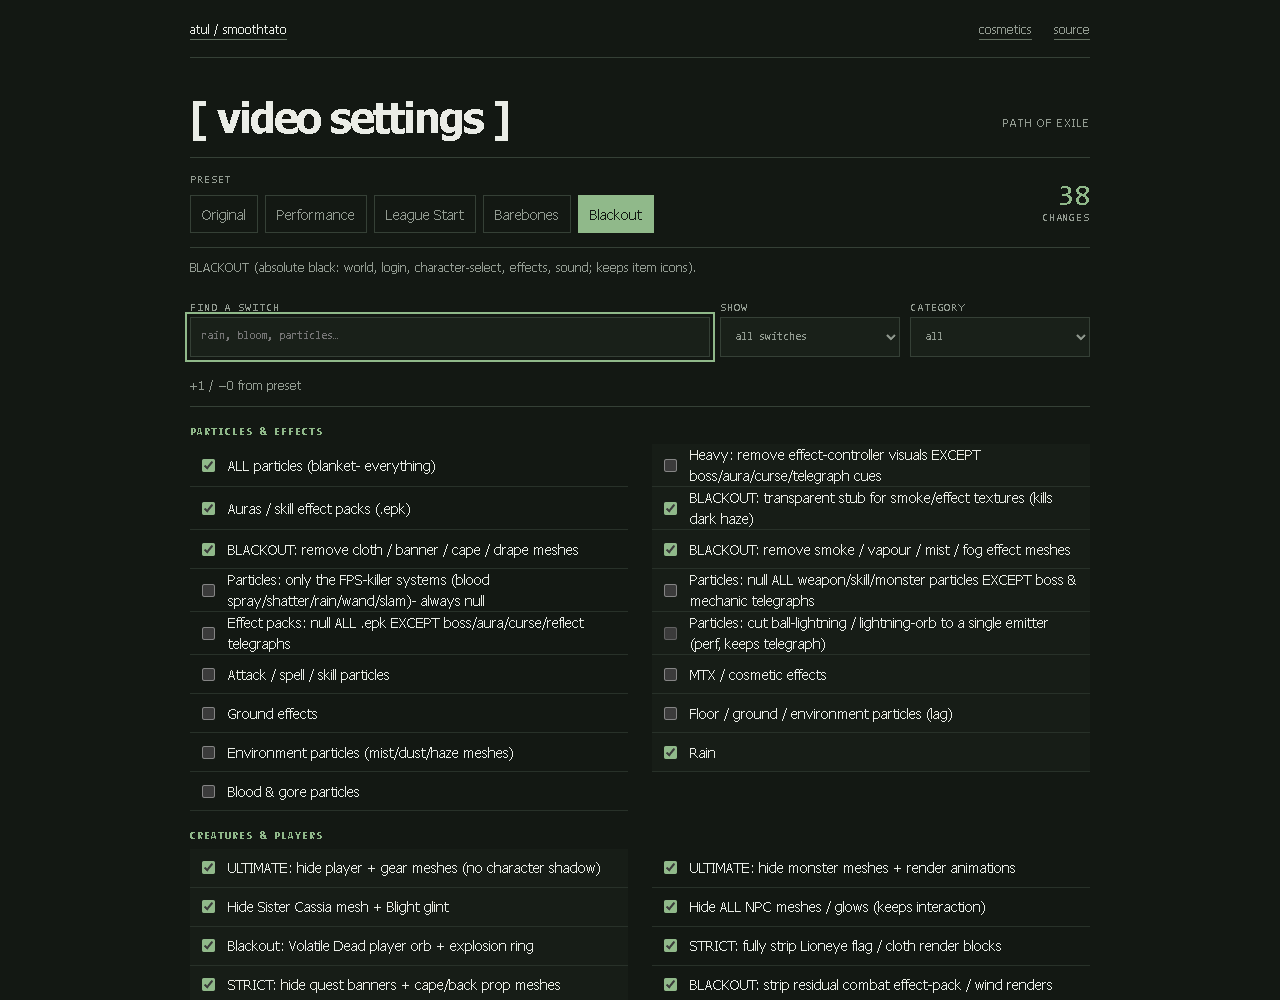
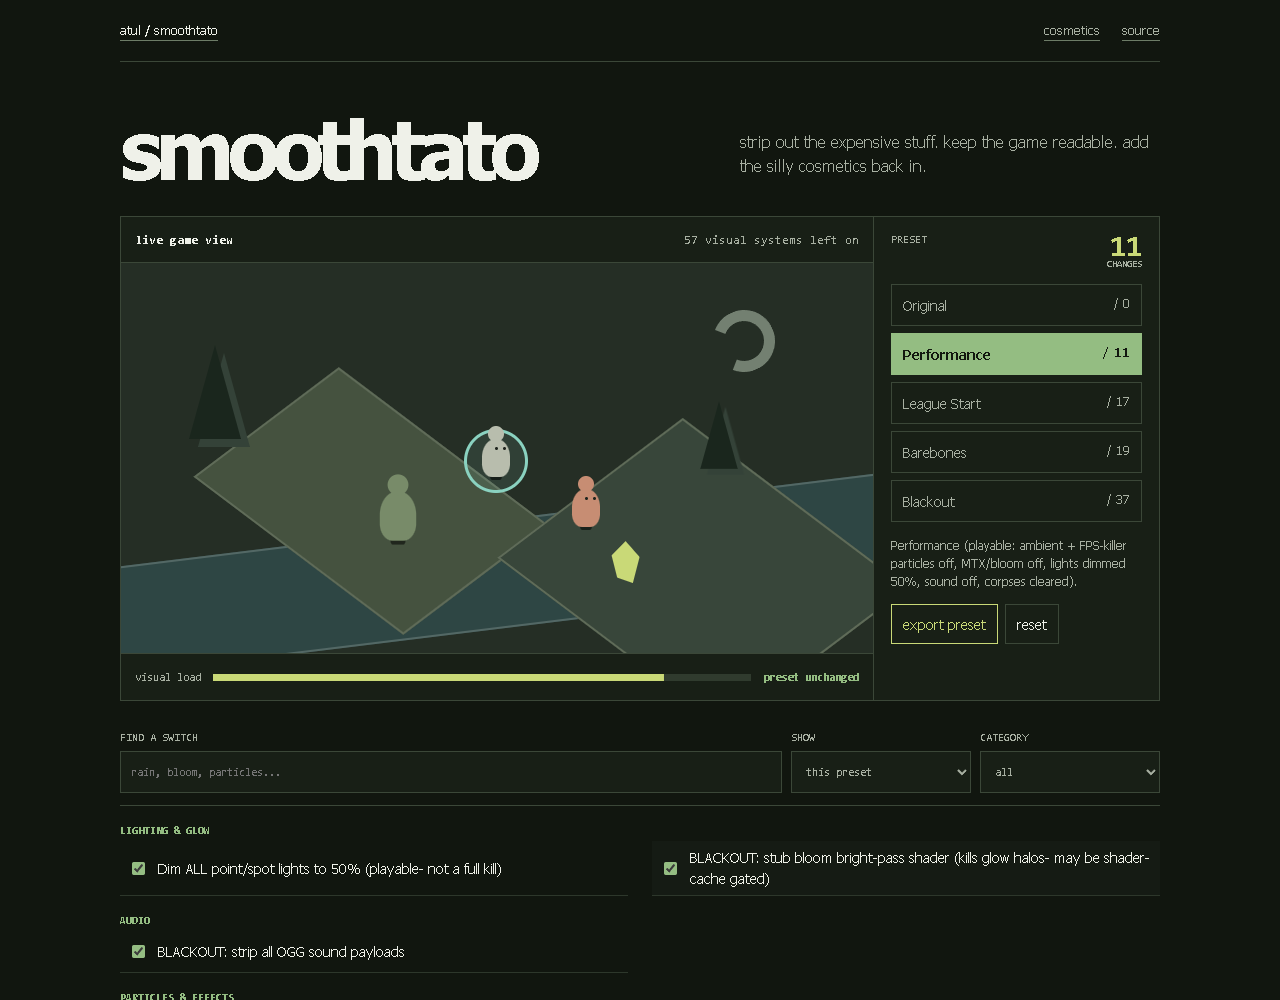
Turn Smoothtato into a visual workbench

diff --git a/examples/portfolio/style.css b/examples/portfolio/style.css
@@ -1,1 +1,6 @@
-:root{color-scheme:dark;--bg:#131813;--ink:#e9ece6;--muted:#929b91;--line:#354036;--green:#90b98a;--panel:#192019}*{box-sizing:border-box}body{margin:0;background:var(--bg);color:var(--ink);font:14px/1.5 "Segoe UI",Arial,sans-serif}a{color:inherit;text-decoration-color:#667364;text-underline-offset:5px}button,input,select,textarea{font:inherit;color:inherit;border-radius:0}:focus-visible{outline:2px solid var(--green);outline-offset:3px}header,main{width:min(900px,calc(100% - 48px));margin:auto}header{height:68px;display:flex;align-items:center;justify-content:space-between;border-bottom:1px solid var(--line);font-size:12px}header nav{display:flex;gap:22px;color:var(--muted)}main{padding:68px 0}.hero p{margin:0 0 9px;color:var(--muted);font-size:11px;text-transform:uppercase;letter-spacing:.1em}.hero h1{margin:0 0 52px;font:54px/.97 Georgia,serif;font-weight:400;letter-spacing:-.04em}.hero em{color:var(--green);font-weight:400}.presets{display:flex;align-items:end;justify-content:space-between;gap:20px;padding-block:20px;border-block:1px solid var(--line)}.presets>div>span,.controls label{display:block;margin-bottom:7px;color:var(--muted);font-size:11px;text-transform:uppercase;letter-spacing:.08em}#presets{display:flex;flex-wrap:wrap;gap:7px}#presets button{min-height:38px;padding:7px 11px;border:1px solid var(--line);background:transparent;color:var(--muted)}#presets button[aria-pressed=true]{color:#121812;background:var(--green);border-color:var(--green)}#presets small{display:none}.meter{text-align:right}.meter strong{display:block;color:var(--green);font:30px/1 Georgia,serif}.meter span{color:var(--muted);font-size:11px}#preset-description,#differences,#status,#provenance{color:var(--muted);font-size:12px}#preset-description{margin:10px 0 24px}.controls{display:grid;grid-template-columns:1fr 180px 180px;gap:10px;margin-bottom:16px}.controls input,.controls select,textarea{width:100%;min-height:44px;padding:8px 10px;border:1px solid var(--line);background:var(--panel)}#categories{display:grid;grid-template-columns:1fr 1fr;gap:0 24px;border-top:1px solid var(--line)}.group-title{grid-column:1/-1;margin:24px 0 6px;color:var(--green);font-size:11px;text-transform:uppercase;letter-spacing:.09em}.switch{display:flex;align-items:center;gap:10px;min-height:44px;border-bottom:1px solid #283129;cursor:pointer}.switch input{accent-color:var(--green)}.switch strong{font-weight:500}.switch small{display:none}.actions{display:flex;gap:10px;margin-top:25px}.actions button,details button{min-height:42px;padding:8px 13px;border:1px solid var(--line);background:transparent}.actions #export{border-color:var(--green);color:var(--green)}details{margin-top:24px;border-block:1px solid var(--line);padding-bottom:16px}summary{padding:16px 0;color:var(--green);cursor:pointer}details textarea{display:block;max-width:600px;margin-bottom:10px}footer{margin-top:34px;padding-top:18px;border-top:1px solid var(--line)}@media(max-width:650px){header,main{width:calc(100% - 30px)}header{height:58px}main{padding:46px 0}.hero h1{font-size:clamp(40px,13vw,53px)}.presets{align-items:start}.controls{grid-template-columns:1fr 1fr}.controls label:first-child{grid-column:1/-1}#categories{grid-template-columns:1fr}.group-title{grid-column:1}.switch{min-height:48px}}@media(prefers-reduced-motion:reduce){*{transition:none!important}}
+:root{color-scheme:dark;--bg:#11160f;--panel:#181f16;--panel-2:#1e281b;--ink:#eff1e9;--muted:#a8b0a2;--line:#3b4738;--leaf:#94bd82;--acid:#c9d977;--clay:#c99673;--sky:#8ca7a5;--noise:84%}*{box-sizing:border-box}html{background:var(--bg)}body{margin:0;background:var(--bg);color:var(--ink);font:14px/1.5 Tahoma,"Segoe UI",sans-serif}a{color:inherit;text-decoration-color:#6d7c67;text-underline-offset:5px}button,input,select,textarea{font:inherit;color:inherit}:focus-visible{outline:2px solid var(--acid);outline-offset:3px}[hidden]{display:none!important}header,main{width:min(1040px,calc(100% - 48px));margin:auto}header{height:62px;display:flex;align-items:center;justify-content:space-between;border-bottom:1px solid var(--line);font-size:13px}header nav{display:flex;gap:22px;color:var(--muted)}main{padding:52px 0 54px}.hero{display:flex;align-items:end;justify-content:space-between;gap:40px;margin-bottom:35px}.hero h1{margin:0;font:800 clamp(50px,8vw,82px)/.82 Tahoma,"Segoe UI",sans-serif;letter-spacing:-.075em}.hero p{max-width:420px;margin:0 0 3px;color:var(--muted);font-size:16px}
+.workbench{display:grid;grid-template-columns:minmax(0,1.45fr) minmax(270px,.55fr);border:1px solid var(--line);background:var(--panel)}.preview-panel{min-width:0;border-right:1px solid var(--line)}.preview-head{height:46px;display:flex;align-items:center;justify-content:space-between;gap:20px;padding:8px 14px;border-bottom:1px solid var(--line);font:12px/1 ui-monospace,Consolas,monospace}.preview-head span{color:var(--muted)}.game-preview{position:relative;height:390px;overflow:hidden;background:#252e25;isolation:isolate}.game-preview:before{content:"";position:absolute;inset:0;background:linear-gradient(155deg,transparent 0 47%,#4a5847 47% 48%,transparent 48%),linear-gradient(25deg,transparent 0 58%,#3c493c 58% 59%,transparent 59%);opacity:.7}.moon{position:absolute;right:13%;top:12%;width:62px;height:62px;border:11px solid #a3b3a0;border-left-color:transparent;border-radius:50%;rotate:-24deg;opacity:.62}.ground{position:absolute;background:#45523f;transform:rotate(45deg) skew(-8deg,-8deg);border:2px solid #5f6b58}.ground-a{left:16%;bottom:16%;width:260px;height:180px}.ground-b{right:4%;bottom:-9%;width:280px;height:230px;background:#38463a}.water{position:absolute;left:-12%;right:-10%;bottom:6%;height:28%;background:#314c4c;transform:skewY(-7deg);border-block:2px solid #5f7776;opacity:.8}.fog{position:absolute;z-index:7;width:80%;height:58px;background:#b8c2b4;filter:blur(25px);opacity:.21;transition:opacity 260ms ease-out}.fog-a{left:-20%;top:28%;rotate:7deg}.fog-b{right:-18%;bottom:16%;rotate:-5deg}.doodad{position:absolute;z-index:3;transition:opacity 220ms ease-out,transform 220ms ease-out}.tree-a,.tree-b{width:0;height:0;border-left:26px solid transparent;border-right:26px solid transparent;border-bottom:94px solid #1a261d;filter:drop-shadow(9px 8px 0 #344238)}.tree-a{left:9%;top:21%}.tree-b{right:17%;top:32%;scale:.72}.crystal{right:31%;bottom:18%;width:28px;height:42px;background:var(--acid);clip-path:polygon(50% 0,100% 38%,76% 100%,20% 87%,0 34%);outline:2px solid #e9efae}.corpse{position:absolute;z-index:5;width:42px;height:13px;border:3px solid #85685f;border-radius:50%;rotate:-16deg;transition:opacity 180ms ease-out}.corpse-a{left:29%;bottom:24%}.corpse-b{right:22%;bottom:37%;scale:.7}.player,.other-player,.monster{position:absolute;z-index:8;width:28px;height:38px;border-radius:48% 48% 35% 35%;background:#b8bdad;box-shadow:0 11px 0 -8px #0008;transition:opacity 180ms ease-out}.player{left:48%;top:45%}.other-player{left:60%;top:58%;background:#c78d73}.monster{left:35%;top:60%;background:#788b69;scale:1.3}.player:before,.other-player:before,.monster:before{content:"";position:absolute;left:6px;top:-13px;width:16px;height:16px;border-radius:50%;background:inherit}.player i,.other-player i{position:absolute;left:13px;top:8px;width:3px;height:3px;border-radius:50%;background:#20251f;box-shadow:8px 0 #20251f}.aura,.bloom,.mtx{position:absolute;z-index:6;left:calc(48% - 18px);top:calc(45% - 10px);width:64px;height:64px;border:3px solid #8ad2c0;border-radius:50%;background:#8ad2c01c;animation:aura 1.8s ease-in-out infinite;transition:opacity 180ms ease-out}.bloom{left:calc(35% - 22px);top:calc(60% - 17px);width:78px;height:58px;border-color:#efc58a;background:#efc58a24}.mtx{left:calc(60% - 20px);top:calc(58% - 13px);width:70px;height:70px;border-style:dashed;border-color:#cf8fcb;background:#cf8fcb19}.particle{position:absolute;z-index:9;width:7px;height:7px;background:#d4e1a7;rotate:45deg;animation:float 1.7s ease-in-out infinite;transition:opacity 180ms ease-out}.p1{left:42%;top:32%}.p2{left:55%;top:39%;animation-delay:-.4s}.p3{left:69%;top:51%;animation-delay:-.8s}.p4{left:28%;top:53%;animation-delay:-1.1s}.rain{position:absolute;z-index:10;top:-10%;width:1px;height:44%;background:#a9c1c1;rotate:17deg;opacity:.48;animation:rain .85s linear infinite;transition:opacity 180ms ease-out}.r1{left:12%}.r2{left:31%;animation-delay:-.2s}.r3{left:49%;animation-delay:-.5s}.r4{left:70%;animation-delay:-.7s}.r5{left:88%;animation-delay:-.35s}.game-preview.no-rain .rain,.game-preview.no-fog .fog,.game-preview.no-bloom .bloom,.game-preview.no-doodads .doodad,.game-preview.no-corpses .corpse,.game-preview.no-other-player .other-player,.game-preview.no-water .water,.game-preview.no-mtx .mtx,.game-preview.no-particles .particle,.game-preview.no-aura .aura{opacity:0}.game-preview.blackout .ground,.game-preview.blackout .moon{opacity:.08}.game-preview.blackout{background:#131813}@keyframes aura{50%{scale:1.08;opacity:.65}}@keyframes float{50%{translate:0 -13px;rotate:120deg}}@keyframes rain{to{translate:72px 470px}}.noise-readout{height:47px;display:grid;grid-template-columns:auto minmax(100px,1fr) auto;align-items:center;gap:12px;padding:8px 14px;border-top:1px solid var(--line);color:var(--muted);font:11px/1 ui-monospace,Consolas,monospace}.noise-readout i{height:7px;background:#303b2e;overflow:hidden}.noise-readout b{display:block;width:100%;height:100%;background:var(--acid);transform:scaleX(var(--noise));transform-origin:left;transition:transform 260ms ease-out}.noise-readout strong{color:var(--leaf);font-weight:600}
+.preset-panel{padding:17px}.preset-title{display:flex;align-items:start;justify-content:space-between;margin-bottom:15px;color:var(--muted);font:11px/1 ui-monospace,Consolas,monospace;text-transform:uppercase}.meter{text-align:right}.meter strong{display:block;color:var(--acid);font:700 30px/.8 ui-monospace,Consolas,monospace}.meter small{font-size:10px}#presets{display:grid;gap:7px}#presets button{min-height:42px;padding:8px 11px;border:1px solid var(--line);background:transparent;color:var(--muted);text-align:left;transition:background-color 120ms ease-out,color 120ms ease-out,transform 120ms ease-out}#presets button:hover{color:var(--ink)}#presets button:active{transform:scale(.96)}#presets button[aria-pressed=true]{border-color:var(--leaf);background:var(--leaf);color:#12170f;font-weight:700}#presets small{float:right}#preset-description{min-height:44px;margin:14px 0;color:var(--muted);font-size:12px}.actions{display:flex;gap:7px}.actions button,details button{min-height:40px;padding:7px 11px;border:1px solid var(--line);background:transparent}.actions #export{border-color:var(--acid);color:var(--acid)}
+.switchboard{margin-top:30px}.controls{display:grid;grid-template-columns:1fr 180px 180px;gap:9px;margin-bottom:12px}.controls label{display:block;color:var(--muted);font:11px/1.2 ui-monospace,Consolas,monospace;text-transform:uppercase}.controls input,.controls select,textarea{width:100%;min-height:42px;margin-top:7px;padding:8px 10px;border:1px solid var(--line);background:var(--panel)}#categories{display:grid;grid-template-columns:1fr 1fr;gap:0 24px;border-top:1px solid var(--line)}.group-title{grid-column:1/-1;margin:19px 0 5px;color:var(--leaf);font:700 11px/1 ui-monospace,Consolas,monospace;text-transform:uppercase}.switch{display:flex;align-items:center;gap:10px;min-height:42px;padding:6px 8px;border-bottom:1px solid #2d372b;cursor:pointer}.switch:nth-of-type(even){background:#151b14}.switch input{accent-color:var(--leaf)}.switch strong{font-weight:500}.switch small{display:none}details{margin-top:22px;border-block:1px solid var(--line);padding-bottom:15px}summary{padding:14px 0;color:var(--leaf);cursor:pointer}details textarea{display:block;max-width:600px;margin-bottom:10px}#status,#provenance{color:var(--muted);font-size:12px}footer{margin-top:25px;padding-top:14px;border-top:1px solid var(--line)}
+@media(max-width:760px){header,main{width:calc(100% - 28px)}header{height:58px}main{padding:38px 0}.hero{display:block}.hero h1{font-size:56px}.hero p{margin-top:20px}.workbench{grid-template-columns:1fr}.preview-panel{border-right:0;border-bottom:1px solid var(--line)}.game-preview{height:300px}.preset-panel{padding:14px}#presets{grid-template-columns:1fr 1fr}.controls{grid-template-columns:1fr 1fr}.controls label:first-child{grid-column:1/-1}#categories{grid-template-columns:1fr}.group-title{grid-column:1}.switch{min-height:46px}.noise-readout{grid-template-columns:auto 1fr}.noise-readout strong{grid-column:1/-1}}
+@media(prefers-reduced-motion:reduce){*{animation:none!important;transition:none!important}}

diff --git a/examples/portfolio/index.html b/examples/portfolio/index.html
@@ -1,13 +1,51 @@
-<!doctype html><html lang="en"><head><meta charset="utf-8"><meta name="viewport" content="width=device-width,initial-scale=1"><title>smoothtato / graphics presets</title><link rel="stylesheet" href="style.css"><link rel="stylesheet" href="identity.css"></head><body>
+<!doctype html>
+<html lang="en">
+<head>
+    <meta charset="utf-8">
+    <meta name="viewport" content="width=device-width,initial-scale=1">
+    <meta name="theme-color" content="#11160f">
+    <title>smoothtato / graphics workbench</title>
+    <link rel="icon" href="assets/favicon.svg" type="image/svg+xml">
+    <link rel="stylesheet" href="style.css">
+    <link rel="stylesheet" href="identity.css">
+</head>
+<body>
 <header><a href="https://lolstar123.github.io/just-a-little-further/">atul / smoothtato</a><nav><a href="cosmetics/">cosmetics</a><a href="https://github.com/LolStar123/smoothtato-preview">source</a></nav></header>
 <main>
-<section class="hero"><p>path of exile</p><h1>[ video settings ]</h1></section>
-<section class="presets"><div><span>preset</span><div id="presets"></div></div><div class="meter"><strong id="selected-count">0</strong><span>changes</span></div></section>
-<p id="preset-description"></p>
-<div class="controls"><label>find a switch<input id="search" type="search" placeholder="rain, bloom, particles…"></label><label>show<select id="filter"><option value="enabled">this preset</option><option value="all">all switches</option><option value="changed">my changes</option></select></label><label class="group-control">category<select id="group"><option value="">all</option></select></label></div>
-<p id="differences"></p>
-<section id="categories" aria-label="Graphics switches"></section>
-<div class="actions"><button id="export">export preset</button><button id="restore">reset</button></div>
-<details><summary>import a preset</summary><textarea id="code" rows="3" aria-label="STATO1 code"></textarea><button id="import">import</button></details>
-<p id="status" role="status"></p><footer id="provenance"></footer>
-</main><script type="module" src="app.mjs"></script></body></html>
+    <section class="hero" aria-labelledby="page-title"><h1 id="page-title">smoothtato</h1><p>strip out the expensive stuff. keep the game readable. add the silly cosmetics back in.</p></section>
+
+    <section class="workbench" aria-label="Live graphics preset preview">
+        <div class="preview-panel">
+            <div class="preview-head"><strong>live game view</strong><span id="preview-state">loading switches...</span></div>
+            <div id="game-preview" class="game-preview">
+                <span class="moon"></span><span class="fog fog-a"></span><span class="fog fog-b"></span>
+                <span class="water"></span><span class="ground ground-a"></span><span class="ground ground-b"></span>
+                <span class="doodad tree-a"></span><span class="doodad tree-b"></span><span class="doodad crystal"></span>
+                <span class="corpse corpse-a"></span><span class="corpse corpse-b"></span>
+                <span class="player"><i></i></span><span class="other-player"><i></i></span><span class="monster"></span>
+                <span class="aura"></span><span class="bloom"></span><span class="mtx"></span>
+                <span class="particle p1"></span><span class="particle p2"></span><span class="particle p3"></span><span class="particle p4"></span>
+                <span class="rain r1"></span><span class="rain r2"></span><span class="rain r3"></span><span class="rain r4"></span><span class="rain r5"></span>
+            </div>
+            <div class="noise-readout"><span>visual load</span><i><b id="noise-meter"></b></i><strong id="differences">preset unchanged</strong></div>
+        </div>
+
+        <aside class="preset-panel">
+            <div class="preset-title"><span>preset</span><div class="meter"><strong id="selected-count">0</strong><small>changes</small></div></div>
+            <div id="presets"></div>
+            <p id="preset-description"></p>
+            <div class="actions"><button id="export">export preset</button><button id="restore">reset</button></div>
+        </aside>
+    </section>
+
+    <section class="switchboard" aria-label="Graphics switches">
+        <div class="controls"><label>find a switch<input id="search" type="search" placeholder="rain, bloom, particles..."></label><label>show<select id="filter"><option value="enabled">this preset</option><option value="all">all switches</option><option value="changed">my changes</option></select></label><label class="group-control">category<select id="group"><option value="">all</option></select></label></div>
+        <section id="categories" aria-label="Graphics switches"></section>
+    </section>
+
+    <details><summary>import a preset</summary><textarea id="code" rows="3" aria-label="STATO1 code"></textarea><button id="import">import</button></details>
+    <p id="status" role="status"></p><footer id="provenance"></footer>
+</main>
+<script type="module" src="app.mjs"></script>
+</body>
+</html>

diff --git a/examples/portfolio/identity.css b/examples/portfolio/identity.css
@@ -1,2 +1,10 @@
-/* graphics settings screen: choices first, prose almost absent */
-body{font-family:Tahoma,"Segoe UI",sans-serif}header{height:58px}main{padding:40px 0 48px}.hero{display:flex;align-items:end;justify-content:space-between;gap:24px;margin-bottom:20px}.hero p{order:2;margin:0 0 5px}.hero h1{margin:0;font:800 42px/.92 Tahoma,"Segoe UI",sans-serif;letter-spacing:-.05em;text-transform:lowercase}.presets{padding:14px 0}.presets>div>span,.controls label,.group-title{font-family:ui-monospace,Consolas,monospace}.meter strong{font-family:ui-monospace,Consolas,monospace}.controls{margin-bottom:10px}.controls input,.controls select{min-height:40px}.group-title{margin:17px 0 4px}.switch{min-height:39px;padding-inline:8px}.switch:nth-of-type(even){background:#171d17}.actions{margin-top:17px}details{margin-top:16px}summary{padding:13px 0}footer{margin-top:24px;padding-top:13px}@media(max-width:650px){main{padding:32px 0 40px}.hero{display:block}.hero p{margin-bottom:8px}.hero h1{font-size:38px}.presets{align-items:start}.switch{min-height:44px}}
+/* A live game viewport makes every removed effect legible before the switch list begins. */
+.workbench{box-shadow:none}
+.game-preview:before{display:none}
+.ground{border:2px solid #5f6b58;box-shadow:none}
+.crystal{outline:2px solid #e9efae;box-shadow:none}
+.aura,.bloom,.mtx{background:#8ad2c01c;box-shadow:none}
+.bloom{background:#efc58a24}
+.mtx{background:#cf8fcb19}
+.noise-readout i{overflow:hidden}
+.noise-readout b{width:100%;transform:scaleX(var(--noise));transform-origin:left;transition:transform 260ms ease-out}

diff --git a/examples/portfolio/cosmetics/identity.css b/examples/portfolio/cosmetics/identity.css
@@ -1,0 +1,8 @@
+body,input,select,textarea,button{font-family:Tahoma,"Segoe UI",sans-serif}
+header{font-size:12px}
+.eyebrow{font-size:12px;letter-spacing:.04em}
+label{font-size:12px}
+.results-head,.results-head button,.no-art,.effect small,#loadout button{font-size:12px}
+.effect,#blurb,#evidence,#status,#loadout>div,details,footer{font-size:12px}
+footer{color:#a18f9a}
+@media(max-width:850px){header{font-size:11px}.effect{font-size:12px}}

diff --git a/examples/portfolio/cosmetics/index.html b/examples/portfolio/cosmetics/index.html
@@ -4,7 +4,7 @@
         name="viewport"
         content="width=device-width,initial-scale=1"
     /><title>smoothtato / effect wardrobe</title
-    ><link rel="stylesheet" href="style.css" />
+    ><link rel="stylesheet" href="style.css" /><link rel="stylesheet" href="identity.css" />
     <body>
         <header>
             <a href="https://poetato.app">poetato / smoothtato</a>

diff --git a/tools/cosmetics_audit.py b/tools/cosmetics_audit.py
@@ -32,7 +32,7 @@ try:
         page.wait_for_function('document.querySelector("#status").textContent.startsWith("Loaded")')
         assert page.locator('#preview img').evaluate('(e)=>e.complete&&e.naturalWidth>0')
         page.evaluate('window.scrollTo(0,0)')
-        page.screenshot(path=str(ROOT/'examples/portfolio/preview.png'))
+        page.screenshot(path=str(ROOT/'examples/portfolio/cosmetics/preview.png'))
         page.set_viewport_size({'width':390,'height':844})
         assert page.evaluate('document.documentElement.scrollWidth<=innerWidth+1'),'mobile overflow'
         page.locator('#catalogue [data-key]').first.click()

diff --git a/tools/browser_audit.py b/tools/browser_audit.py
@@ -35,7 +35,8 @@ try:
         page.locator('#search').fill('')
         page.locator('#filter').select_option('changed')
         assert page.locator('[data-key]').count()==1
-        page.locator('#filter').select_option('all')
+        page.locator('[data-preset="safe"]').click()
+        page.locator('#filter').select_option('enabled')
         page.evaluate('window.scrollTo(0,0)')
         page.screenshot(path=str(ROOT/'examples/portfolio/preview.png'))
         page.set_viewport_size({'width':390,'height':844})

diff --git a/DESIGN.md b/DESIGN.md
@@ -1,0 +1,21 @@
+# Smoothtato demo design
+
+Smoothtato has two jobs: remove expensive game effects and add cosmetic replacements. The demo keeps both under one product name while giving each task its own workspace.
+
+## Graphics workbench
+
+The main page behaves like a graphics tuning bench. A live game-like viewport changes with the real preset state, so the effect of a switch is visible before the full 68-setting list. Presets, search, filtering, reset, import and export all use the repository's actual data and codec.
+
+The palette borrows muted forest greens from Path of Exile without copying its interface. Thin structural lines and dense monospace readouts make it feel like a tool, while the large title and spare page frame keep it readable.
+
+## Cosmetics catalogue
+
+The wardrobe uses the real catalogue, real preview art, compatibility evidence and loadout codec. It is intentionally more image-led than the graphics workbench because choosing an effect is a visual decision.
+
+## Rules
+
+- Show state changes in the viewport before explaining them.
+- Keep the default view to the current preset, with the full switch list available through filters.
+- Treat graphics removal and cosmetics as two parts of Smoothtato.
+- Keep desktop and mobile fully functional with no horizontal overflow.
+- Avoid decorative gradients, glow-heavy framing and generic dashboard cards.

diff --git a/README.md b/README.md
@@ -2,7 +2,7 @@
 
 One Path of Exile visual tool: remove unwanted graphics and add cosmetic effects through reusable game-file replacement presets.
 
-**[graphics editor](https://lolstar123.github.io/smoothtato-preview/)** ? **[cosmetics catalogue](https://lolstar123.github.io/smoothtato-preview/cosmetics/)** ? [desktop app](https://poetato.app)
+**[graphics editor](https://lolstar123.github.io/smoothtato-preview/)** · **[cosmetics catalogue](https://lolstar123.github.io/smoothtato-preview/cosmetics/)** · [desktop app](https://poetato.app)
 
 ## Two parts, one tool
 

diff --git a/examples/portfolio/cosmetics/README.md b/examples/portfolio/cosmetics/README.md
@@ -1,3 +1,3 @@
 See the [repository guide](../../README.md) for the working app, actual datasets and validation commands.
 
-[Open the demo](https://lolstar123.github.io/mtxtato-catalogue/).
+[Open the Smoothtato cosmetics catalogue](https://lolstar123.github.io/smoothtato-preview/cosmetics/).
